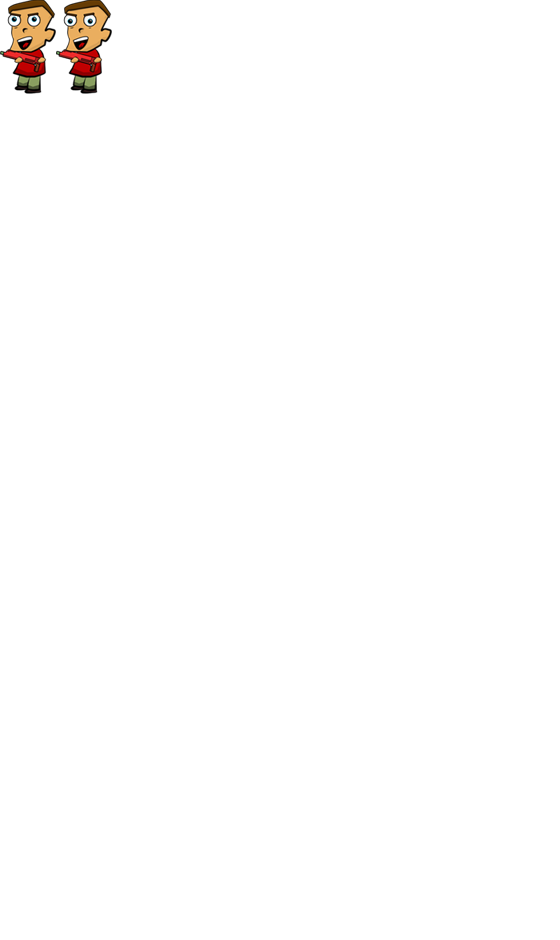
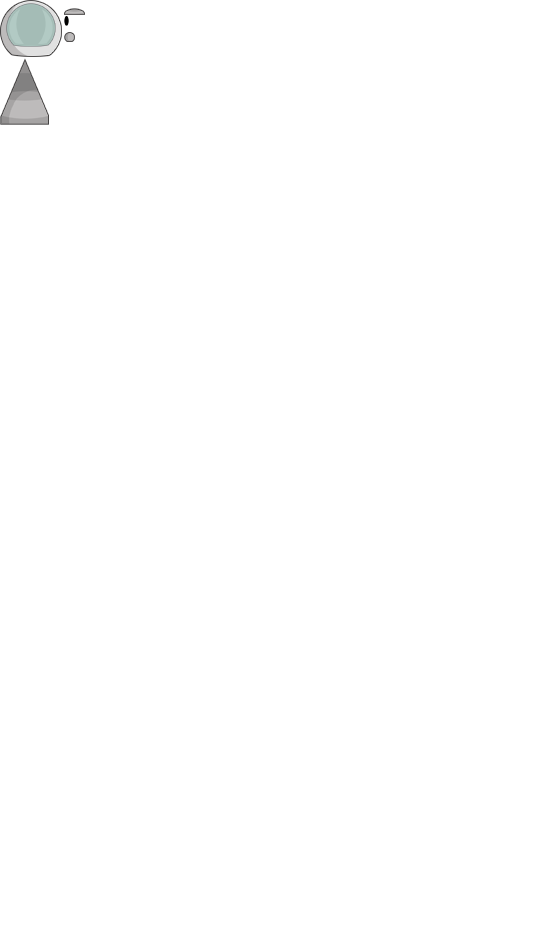
Fixed the SpriteSheet class so that it is possible to take out one picture when given a x,y,width and height, created a new character which is more symetric so that mirroring isn't necessary. Added following eyes to the player class

Changed region(s): [[0.0, 0.0, 0.2125, 0.1543]]

diff --git a/Game/src/player/Player.java b/Game/src/player/Player.java
@@ -32,13 +32,18 @@ public class Player extends Rectangle {
 	
 	private final Point startPoint = new Point(2000,2000);
 	
-	private boolean lookingRight=true;
 	private final double GRAVITY = 1; // Konstant gravitation
 	private final double JUMPHEIGHT = -15; // Höjden på ett hopp
 
 	private final String PLAYERIMAGE = "player.png";
 	private Image im;
-	private ArrayList<Image> playerImageArray = new ArrayList<Image>();
+	
+	private final int PLAYERBODY = 0, PLAYERHEAD = 1, PLAYEREYE = 2, PLAYERHAND = 3, PLAYERFOOT = 4;
+	private int eyeXoffset = 0,eyeYoffset = 0;
+	
+	private SpriteSheet spriteSheet = new SpriteSheet();
+	
+	private ArrayList<Image> sprite = new ArrayList<Image>();
 	
 	private Rectangle camera;
 	private int screenWidth;
@@ -47,11 +52,12 @@ public class Player extends Rectangle {
 	public Player(int screenWidth, int screenHeight, Images images) {
 		x = startPoint.x;
 		y = startPoint.y;
-		width = 56;
+		width = 62;
 		height = 94;
 		this.screenWidth = screenWidth;
 		this.screenHeight = screenHeight;
 		camera = new Rectangle(screenWidth, screenHeight);
+		
 		loadImages(PLAYERIMAGE, images);
 	}
 
@@ -134,21 +140,37 @@ public class Player extends Rectangle {
 	}
 
 	// Ritar ut spelaren
-
+	private void drawImage(Graphics2D g,Image img, int xOffset, int yOffset)
+	{
+		
+			g.drawImage(img, x+xOffset, y+yOffset, img.getWidth(null), img.getHeight(null), null); // left eye
+	}
 	public void render(Graphics2D g) {
+			drawImage(g,sprite.get(PLAYERBODY),5,22);//Kroppen
+			drawImage(g,sprite.get(PLAYERHEAD),0,0);//Huvud
 
-		if (lookingRight) {
-			g.drawImage(im, x + im.getWidth(null), y, x, y + im.getHeight(null), 0, 0, im.getWidth(null),
-					im.getHeight(null), null);
-		} else
-			g.drawImage(im, x, y, width, height, null);
+				drawImage(g,sprite.get(PLAYEREYE), 35 + eyeXoffset,18 + eyeYoffset); // höger öga
+				drawImage(g,sprite.get(PLAYEREYE), 20 + eyeXoffset,18 + eyeYoffset); // Vänster öga
+
+
+
+			drawImage(g,sprite.get(PLAYERHAND), 45,65); // Höger hand
+			drawImage(g,sprite.get(PLAYERHAND), 5,65); // Vänster hand
+			drawImage(g,sprite.get(PLAYERFOOT), 3,85); // vänster fot
+			drawImage(g,sprite.get(PLAYERFOOT), 36,85); // höger fot
+
 	}
 	
 	private void loadImages(String imagePath, Images images){
 		
 		im = images.getImage(imagePath);
-		playerImageArray = new SpriteSheet().splitSpriteSheet(im, 56, 94);
-		im = playerImageArray.get(0);
+		sprite.add(spriteSheet.splitSpriteSheet(im,0,59, 49, 66)); //Laddar in kropp
+		sprite.add(spriteSheet.splitSpriteSheet(im,0,0, 62, 57)); //Laddar in huvud
+		sprite.add(spriteSheet.splitSpriteSheet(im,64,16, 5, 10)); //Laddar in öga
+		sprite.add(spriteSheet.splitSpriteSheet(im,64,32, 11, 10)); //Laddar in hand
+		sprite.add(spriteSheet.splitSpriteSheet(im,64,8, 21, 7)); //Laddar in fot
+		
+		
 		
 	}
 
@@ -197,15 +219,11 @@ public class Player extends Rectangle {
 	}
 			//   X
 	public void mouseMoved(MouseEvent m) {
-		if(m.getPoint().x > screenWidth/2)
-			lookingRight = true;
-			else
-			lookingRight = false;
-		if(m.getPoint().y < screenHeight/2)
-		im = playerImageArray.get(0);
-		else 
-		im = playerImageArray.get(1);
-		
+		 double theta = Math.atan2(m.getPoint().y - screenHeight/2, m.getPoint().x - screenWidth/2); //Tar ut vinkeln mellan mus och mitten av skärmen
+		    theta += Math.PI/2.0;  // Gör om vinkel så 0 grader är norr ut
+		    eyeXoffset = (int) Math.round(Math.sin(theta)); 
+		    eyeYoffset = -(int) Math.round(Math.cos(theta));
+
 		
 	}
 

diff --git a/Game/src/images/SpriteSheet.java b/Game/src/images/SpriteSheet.java
@@ -11,47 +11,36 @@ public class SpriteSheet {
 
 
 	public int[] pixels;
-	private ArrayList<Image> images = new ArrayList<Image>();
+	
+	
 	public SpriteSheet() {
 		
 	}
 	//[1][2][3] | [4] [5] [6]
 	//[7][8][9] | [10][11][12]
-	public ArrayList<Image> splitSpriteSheet(Image IMAGE,int WIDTH, int HEIGHT){
+	public Image splitSpriteSheet(Image IMAGE,int X, int Y, int WIDTH, int HEIGHT){
+		BufferedImage singlePicture;
 		int width = IMAGE.getWidth(null);
 		int height = IMAGE.getHeight(null);
 		BufferedImage image = new BufferedImage(width,height,BufferedImage.TYPE_INT_ARGB);
+		BufferedImage croppedImage = new BufferedImage(WIDTH,HEIGHT,BufferedImage.TYPE_INT_ARGB);
 		Graphics2D g2d = image.createGraphics();
 		g2d.drawImage(IMAGE, 0, 0, null);  
 	    g2d.dispose();
 		
 		pixels = image.getRGB(0, 0, width, height, null, 0, width);
-		int rows=(int)Math.floor(width/WIDTH);
-		int cols=(int)Math.floor(height/HEIGHT);
+
 		
-		BufferedImage singlePicture =  new BufferedImage(WIDTH,HEIGHT,BufferedImage.TYPE_INT_ARGB);
-		for(int i = 0; i < rows*cols; i++)
+		for(int h = 0; h < HEIGHT; h++)
 		{
-			 singlePicture = new BufferedImage(WIDTH,HEIGHT,BufferedImage.TYPE_INT_ARGB);	
-			for(int h = 0; h < HEIGHT; h++)
-			{
-				for(int w = 0; w < WIDTH; w++)
-				{
-					
-					singlePicture.setRGB(w, h, pixels[h*width + w + i*WIDTH]);
-					//singlePicture.setRGB(w,h, pixels[i*WIDTH*HEIGHT + h*WIDTH + w ]);
-				}
-			}
-			images.add(singlePicture);
-			
+		for(int w = 0; w <WIDTH; w++)
+		{
+			croppedImage.setRGB(w, h, pixels[(X + w) + (h + Y)*(width) ]);
+		}
 		}
 		
+
 		
-        //images.add(pixelToImage);
-		//for (int i = 0; i < pixels.length; i++) {
-		//	pixels[i] = (pixels[i] & 0xff) / 64;
-		//}
-		
-		return images;
+		return croppedImage;
 	}
 }
